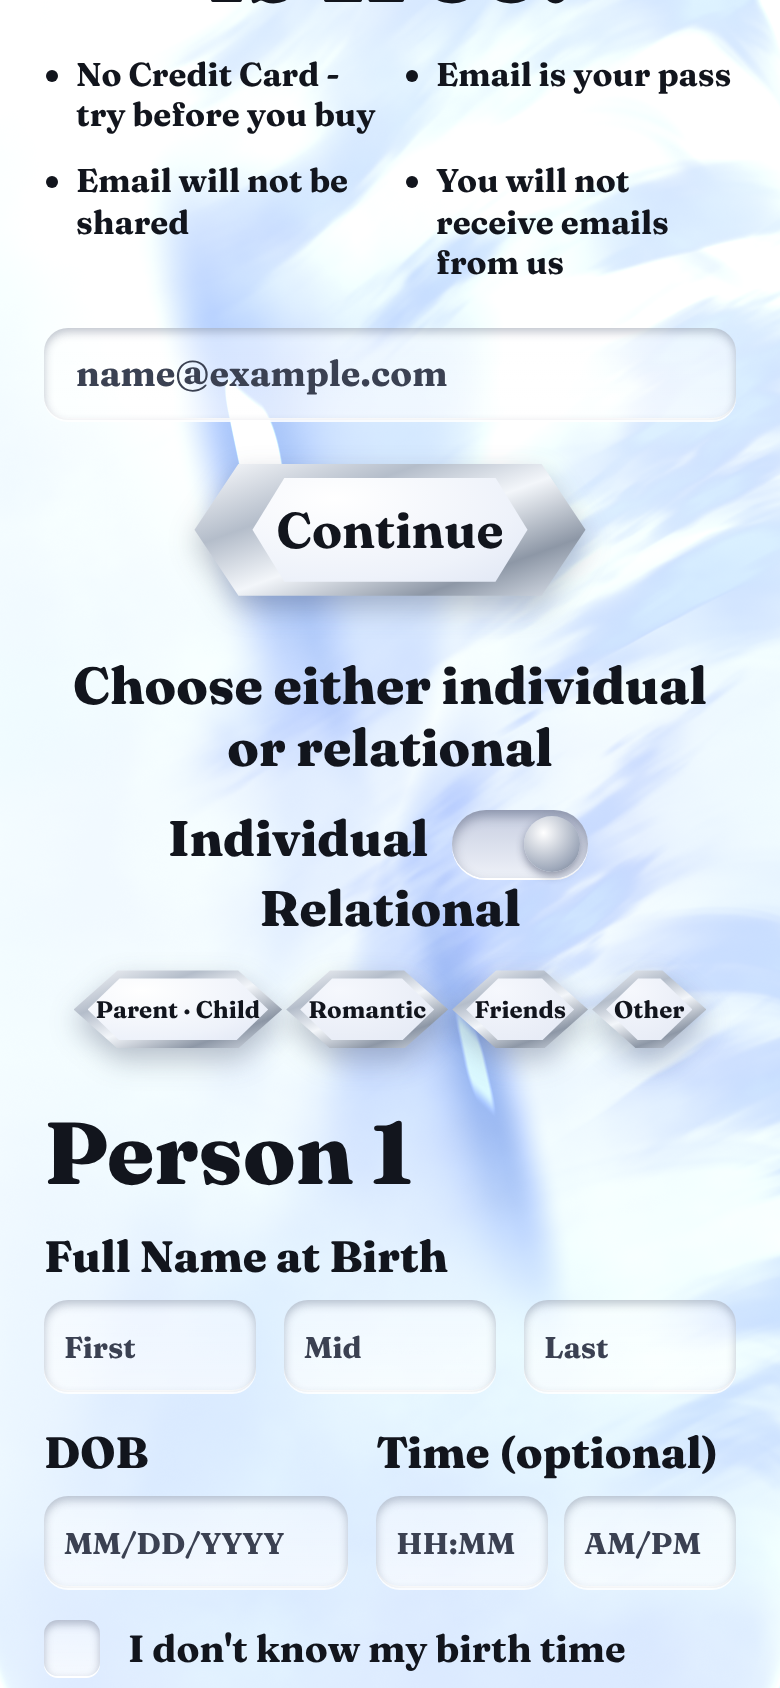
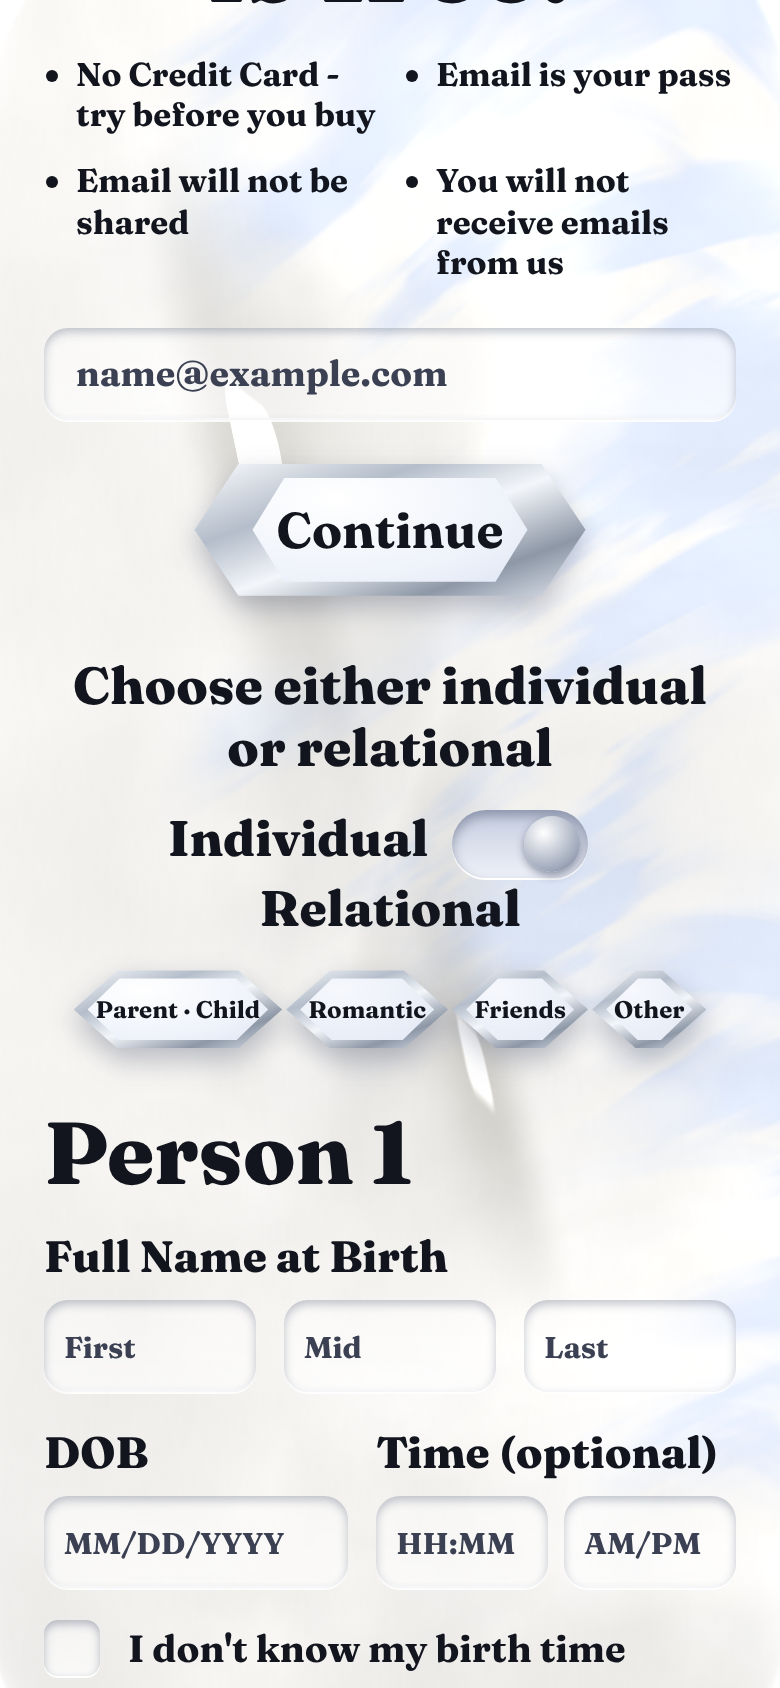
Moonstone: single off-white body, faint blue sheen, shine on a darker white (no hue tints)
Claude-Session: https://claude.ai/code/session_01DRAcaZvypgnSaCTMdJvvGx

diff --git a/stone/stone-full.html b/stone/stone-full.html
@@ -60,24 +60,21 @@ void main(){
     }
     // fine grain (irregular, low contrast) so the interior reads as crystal not haze
     float grain=vn(vec3(p*vec2(310.,70.),2.))*.5+vn(vec3(p*vec2(160.,38.),7.))*.5;
-    // clean pearl body: colour drifts between cream, soft peach and cool white. No darkening anywhere.
-    vec3 body=vec3(.925,.940,.962);
-    float wm=smoothstep(.40,.78,fbm(vec3(p*1.6,4.)));body=mix(body,vec3(.905,.955,.965),wm*.60);
-    float cm=smoothstep(.45,.80,fbm(vec3(p*1.3,13.)));body=mix(body,vec3(.880,.920,.990),cm*.65);
-    body=mix(body,vec3(.930,.950,.985),clamp(cloud,0.,1.)*.5);
+    // one off-white. Only its lightness varies a little (no hue shifts).
+    float lm=smoothstep(.35,.80,fbm(vec3(p*1.5,4.)));
+    vec3 body=vec3(.918,.908,.888)*(.975+.045*lm)*(.992+.008*grain);
     blue*=1.-smoothstep(.0,1.,1.-length(p-vec2(-.14,.915))/.16);
-    float bl=min(1.-exp(-blue*2.0),.62);
-    vec3 deep=vec3(.30,.46,.92),lite=vec3(.74,.85,1.);
+    float bl=min(1.-exp(-blue*2.0),.34);
+    vec3 deep=vec3(.52,.66,.93),lite=vec3(.78,.88,1.);
     vec3 bc=mix(deep,lite,smoothstep(.15,.85,bl));
     vec3 c=mix(body,bc,bl*.85)+vec3(.95,.97,1.)*silver;
     // polished surface
     vec3 r=reflect(-V,N);float F=.045+.955*pow(1.-max(dot(N,V),0.),5.);
     vec3 ev=env(r);float el=dot(ev,vec3(.33));
-    c*=mix(vec3(.90,.94,1.0),vec3(1.),smoothstep(.25,.85,el));
     
     float h1=rbox(r.xy,vec2(-.26,.30),vec2(.26,.23),.20,.17);
     float h2=rbox(r.xy,vec2(.20,-.16),vec2(.17,.15),.15,.15);
-    c=mix(c,c*vec3(.56,.68,.90),max(h1,h2)*.82);
+    c=mix(c,c*vec3(.84,.835,.82),max(h1,h2)*.85);
     c+=ev*(F*1.0+.05)*vec3(.98,.99,1.);
     c+=vec3(1.,1.,1.02)*boxes(r)*(.55+.45*F*6.)*.95;
     float edgeLit=smoothstep(.965,.995,d)*smoothstep(-.1,.7,(-p.x+p.y)*1.4);c+=vec3(1.)*edgeLit*.30;
